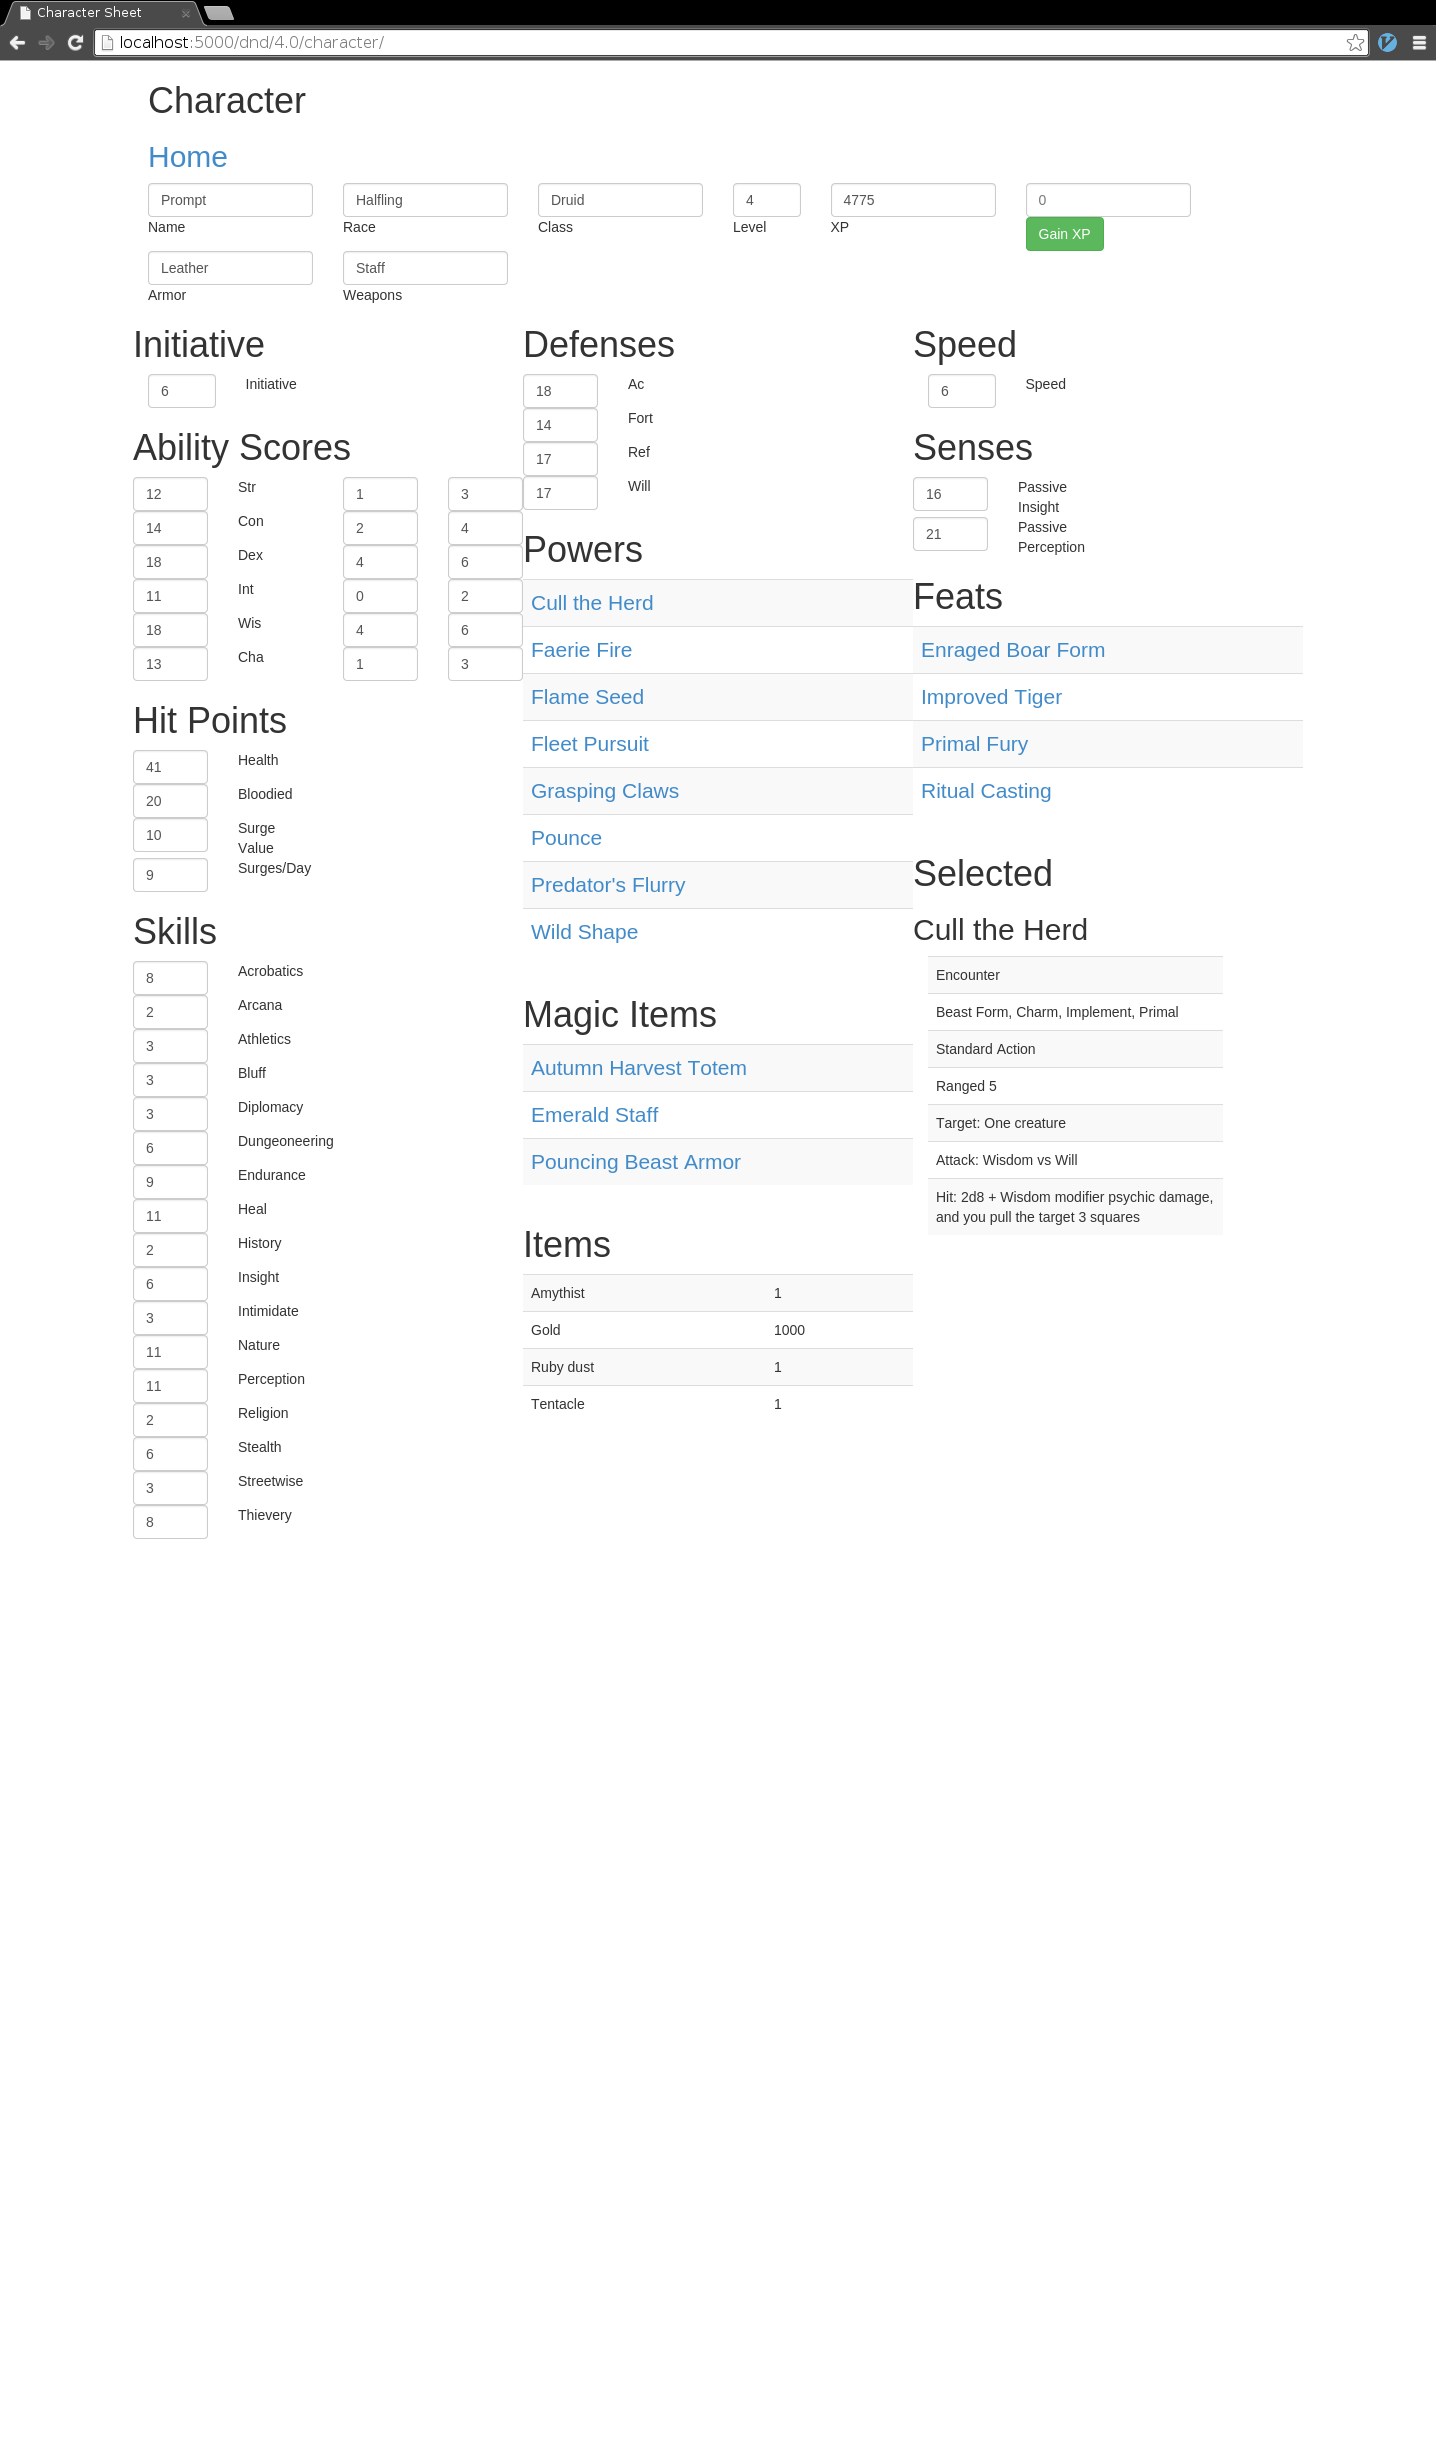
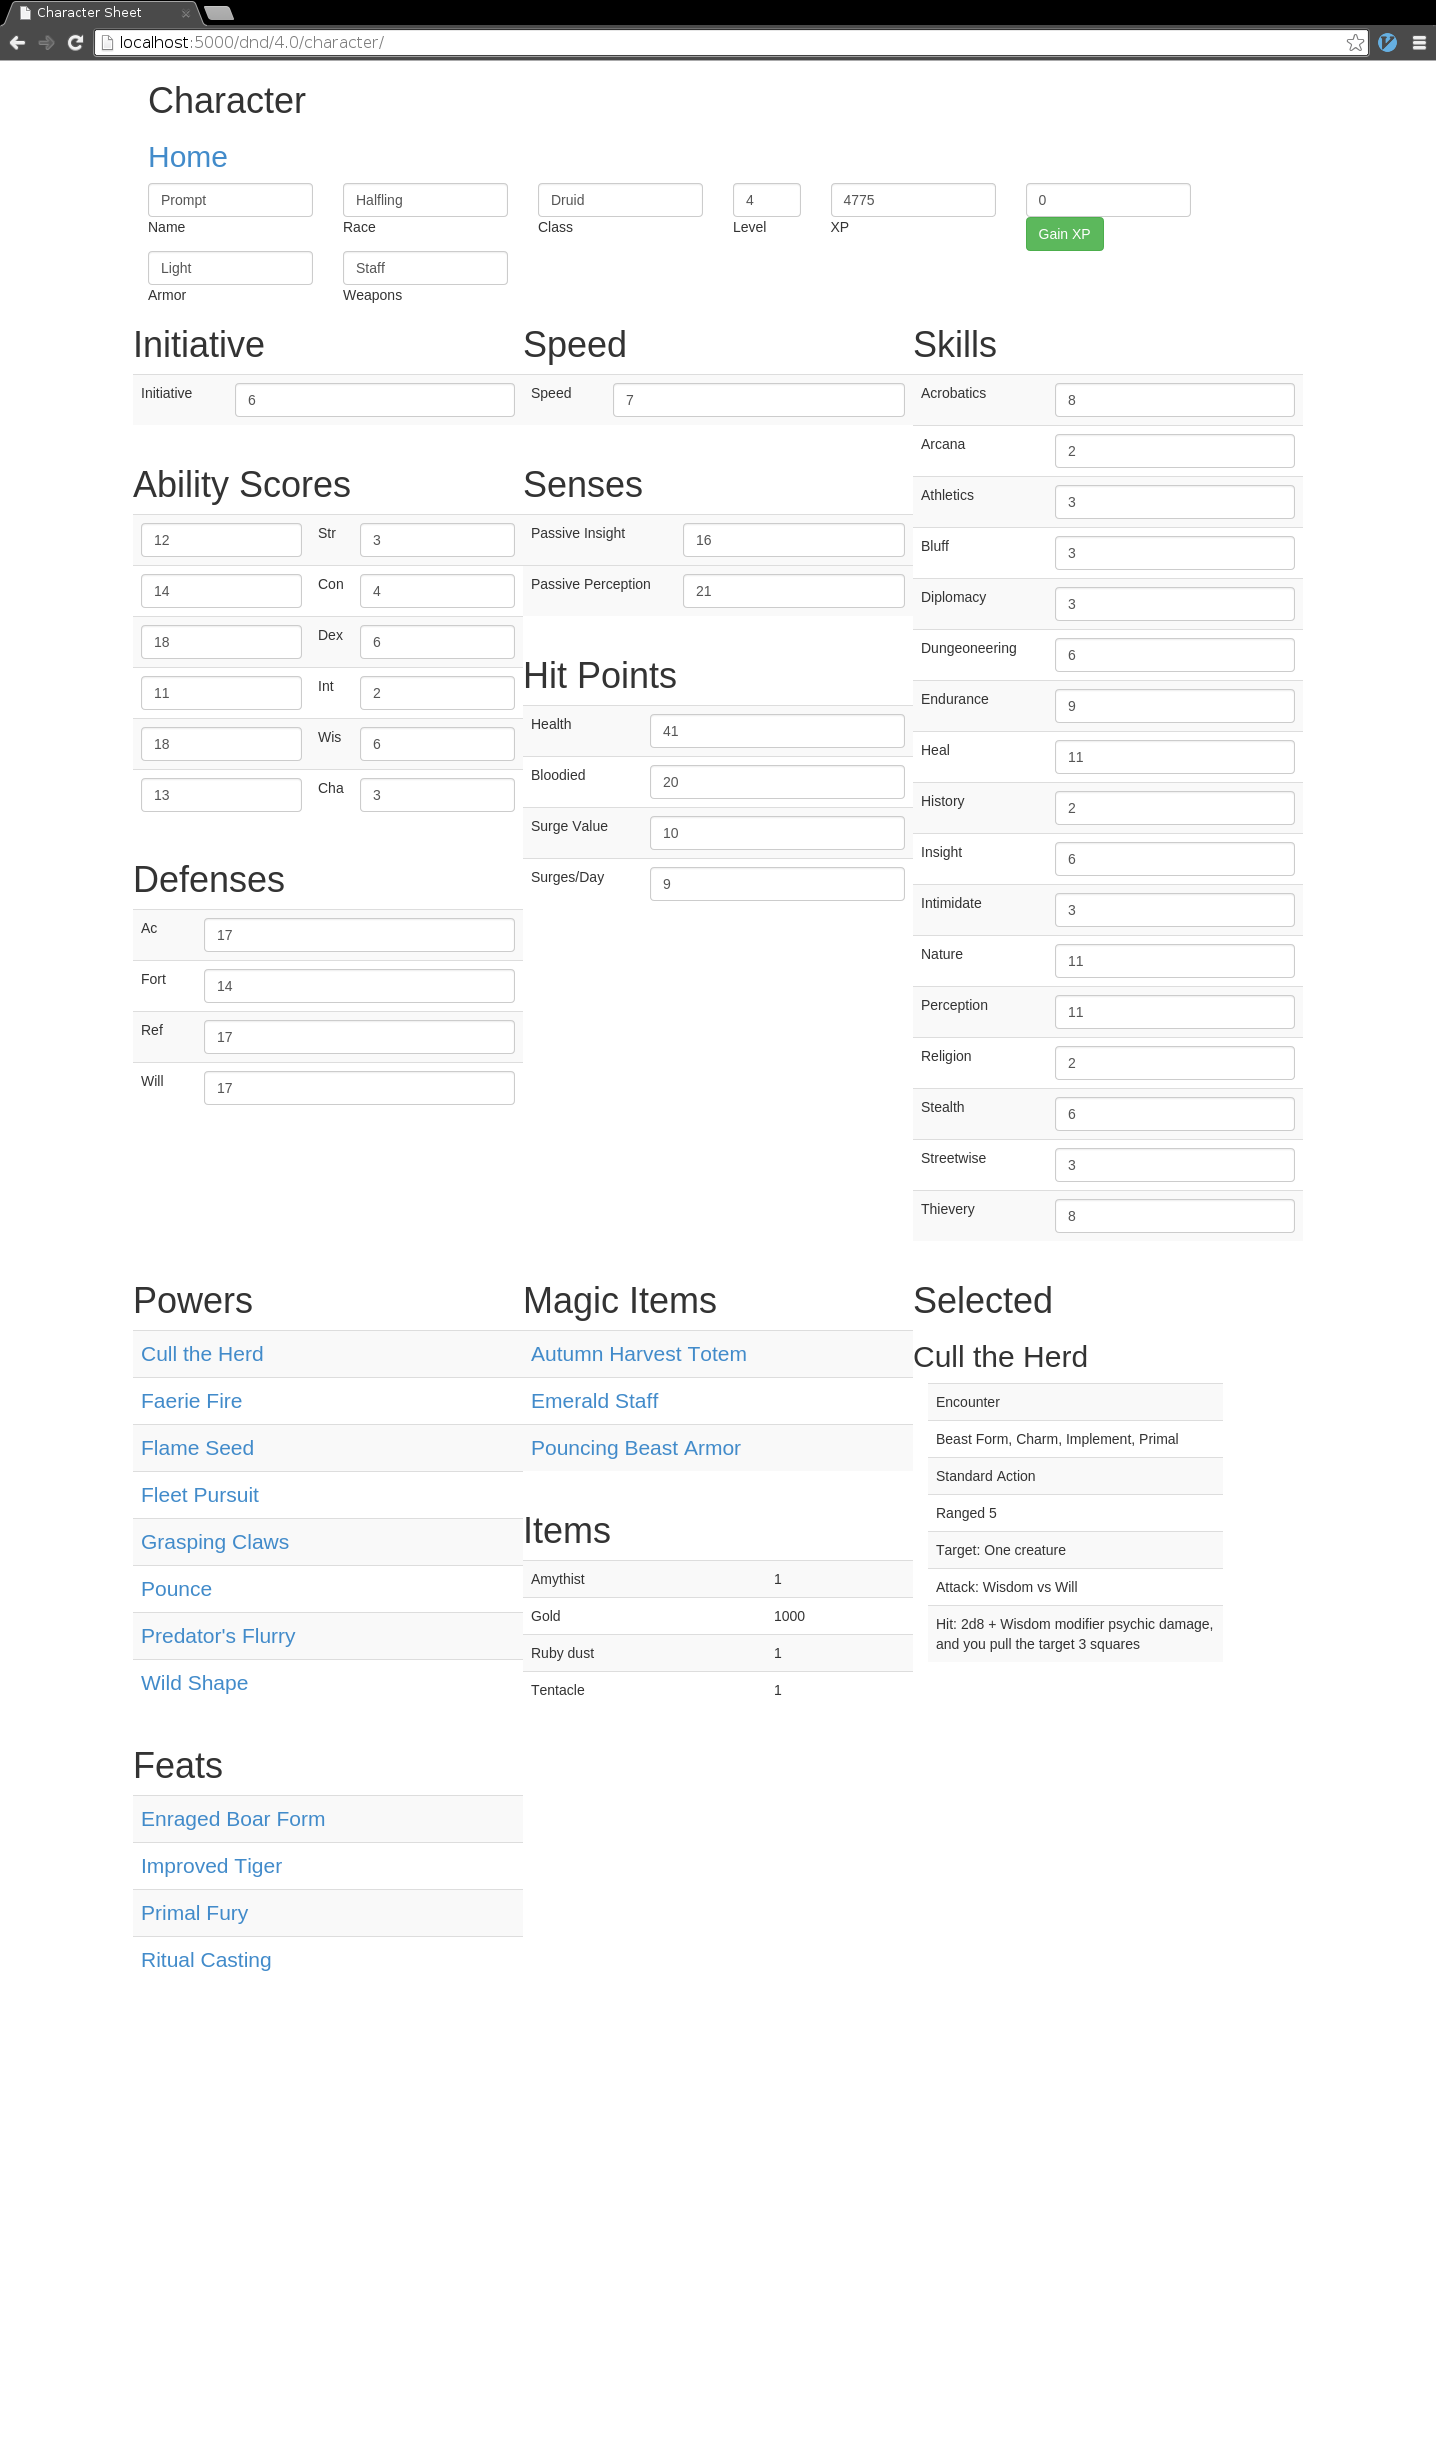
Clean up character page and server.py logic

diff --git a/web/templates/character-4.html b/web/templates/character-4.html
@@ -33,7 +33,6 @@
                     <input type="submit" class="btn btn-success" value="Gain XP"></button>
                 </form>
             </div>
-
         </div>
 
         <div class="row">
@@ -54,93 +53,145 @@
             <div class="col-sm-4">
                 <div class="row">
                     <h1>Initiative</h1>
-                    <div class="col-sm-3">
-                        <input id="initiative" class="form-control" type="text">
-                    </div>
-                    <div class="col-sm-3">Initiative</div>
+                    <table class="table table-striped">
+                        <tr>
+                            <td>Initiative</td>
+                            <td>
+                                <input id="initiative" class="form-control" type="text">
+                            </td>
+                        </tr>
+                    </table>
                 </div>
                 <div class="row">
                     <h1>Ability Scores</h1>
+                    <table class="table table-striped">
                     {% for (name) in ("Str", "Con", "Dex", "Int", "Wis", "Cha") %}
-                        <div class="row">
-                            <div class="col-sm-3">
+                        <tr>
+                            <td>
                                 <input id="abilScore{{ name }}" class="form-control" type="text">
-                            </div>
-                            <div class="col-sm-3">{{ name }}</div>
-                            <div class="col-sm-3">
-                                <input id="abilMod{{ name }}" class="form-control" type="text">
-                            </div>
-                            <div class="col-sm-3">
+                            </td>
+                            <td>{{ name }}</td>
+                            <td>
                                 <input id="abilModPlus{{ name }}" class="form-control" type="text">
-                            </div>
-                        </div>
+                            </td>
+                        </tr>
                     {% endfor %}
+                    </table>
                 </div>
-
                 <div class="row">
-                    <h1>Hit Points</h1>
-                    <div class="row">
-                        <div class="col-sm-3">
-                            <input id="health" class="form-control" type="text">
-                        </div>
-                        <div class="col-sm-3">Health</div>
-                    </div>
-                    <div class="row">
-                        <div class="col-sm-3">
-                            <input id="bloodied" class="form-control" type="text">
-                        </div>
-                        <div class="col-sm-3">Bloodied</div>
-                    </div>
-                    <div class="row">
-                        <div class="col-sm-3">
-                            <input id="surgeValue" class="form-control" type="text">
-                        </div>
-                        <div class="col-sm-3">Surge Value</div>
-                    </div>
-                    <div class="row">
-                        <div class="col-sm-3">
-                            <input id="surgesPerDay" class="form-control" type="text">
-                        </div>
-                        <div class="col-sm-3">Surges/Day</div>
-                    </div>
-                </div>
-
-                <div class="row">
-                    <h1>Skills</h1>
-                    <div>
-                        {% for name in ("Acrobatics", "Arcana", "Athletics", "Bluff", "Diplomacy",
-                            "Dungeoneering", "Endurance", "Heal", "History", "Insight", "Intimidate",
-                            "Nature", "Perception", "Religion", "Stealth", "Streetwise", "Thievery")
-                        %}
-                            <div class="row">
-                                <div class="col-sm-3">
-                                    <input id="{{ name }}" class="form-control" type="text">
-                                </div>
-                                <div class="col-sm-3">{{ name }}</div>
-                            </div>
-                        {% endfor %}
-                    </div>
+                    <h1>Defenses</h1>
+                    <table class="table table-striped">
+                    {% for name in ("Ac", "Fort", "Ref", "Will") %}
+                        <tr>
+                            <td>{{ name }}</td>
+                            <td>
+                                <input id="{{ name }}" class="form-control" type="text">
+                            </td>
+                        </tr>
+                    {% endfor %}
+                    </table>
                 </div>
             </div>
 
             <div class="col-sm-4">
                 <div class="row">
-                    <h1>Defenses</h1>
-                    {% for name in ("Ac", "Fort", "Ref", "Will") %}
-                        <div class="row">
-                            <div class="col-sm-3">
-                                <input id="{{ name }}" class="form-control" type="text">
-                            </div>
-                            <div class="col-sm-3">{{ name }}</div>
-                        </div>
-                    {% endfor %}
+                    <h1>Speed</h1>
+                    <table class="table table-striped">
+                        <tr>
+                            <td>Speed</td>
+                            <td>
+                                <input id="speed" class="form-control" type="text">
+                            </td>
+                        </tr>
+                    </table>
                 </div>
 
+                <div class="row">
+                    <h1>Senses</h1>
+                    <table class="table table-striped">
+                        <tr>
+                            <td>Passive Insight</td>
+                            <td>
+                                <input id="passiveInsight" class="form-control" type="text">
+                            </td>
+                        <tr>
+                        <tr>
+                            <td>Passive Perception</td>
+                            <td>
+                                <input id="passivePerception" class="form-control" type="text">
+                            </td>
+                        </tr>
+                    </table>
+                </div>
+
+                <div class="row">
+                    <h1>Hit Points</h1>
+                    <table class="table table-striped">
+                        <tr>
+                            <td>Health</td>
+                            <td>
+                                <input id="health" class="form-control" type="text">
+                            </td>
+                        </tr>
+                        <tr>
+                            <td>Bloodied</td>
+                            <td>
+                                <input id="bloodied" class="form-control" type="text">
+                            </td>
+                        </tr>
+                        <tr>
+                            <td>Surge Value</td>
+                            <td>
+                                <input id="surgeValue" class="form-control" type="text">
+                            </td>
+                        </tr>
+                        <tr>
+                            <td>Surges/Day</td>
+                            <td>
+                                <input id="surgesPerDay" class="form-control" type="text">
+                            </td>
+                        </tr>
+                    </table>
+                </div>
+            </div>
+
+            <div class="col-sm-4">
+                <div class="row">
+                    <h1>Skills</h1>
+                    <table class="table table-striped">
+                        {% for name in ("Acrobatics", "Arcana", "Athletics", "Bluff", "Diplomacy",
+                            "Dungeoneering", "Endurance", "Heal", "History", "Insight", "Intimidate",
+                            "Nature", "Perception", "Religion", "Stealth", "Streetwise", "Thievery")
+                        %}
+                            <tr>
+                                <td>{{ name }}</td>
+                                <td>
+                                    <input id="{{ name }}" class="form-control" type="text">
+                                </td>
+                            </tr>
+                        {% endfor %}
+                    </table>
+                </div>
+            </div>
+        </div>
+    </div>
+
+    <div class="container">
+        <div class="row">
+            <div class="col-sm-4">
                 <div class="row">
                     <h1>Powers</h1>
                     <div id="powers"></div>
                 </div>
 
+                <div class="row">
+                    <h1>Feats</h1>
+                    <div id="feats"></div>
+                </div>
+            </div>
+
+
+            <div class="col-sm-4">
                 <div class="row">
                     <h1>Magic Items</h1>
                     <div id="magicItems"></div>
@@ -153,35 +204,6 @@
             </div>
 
             <div class="col-sm-4">
-                <div class="row">
-                    <h1>Speed</h1>
-                    <div class="col-sm-3">
-                        <input id="speed" class="form-control" type="text">
-                    </div>
-                    <div class="col-sm-3">Speed</div>
-                </div>
-
-                <div class="row">
-                    <h1>Senses</h1>
-                    <div class="row">
-                        <div class="col-sm-3">
-                            <input id="passiveInsight" class="form-control" type="text">
-                        </div>
-                        <div class="col-sm-3">Passive Insight</div>
-                    </div>
-                    <div class="row">
-                        <div class="col-sm-3">
-                            <input id="passivePerception" class="form-control" type="text">
-                        </div>
-                        <div class="col-sm-3">Passive Perception</div>
-                    </div>
-                </div>
-
-                <div class="row">
-                    <h1>Feats</h1>
-                    <div id="feats"></div>
-                </div>
-
                 <div class="row">
                     <h1>Selected</h1>
                     <h2 id="selectedTitle"></h1>

diff --git a/web/server.py b/web/server.py
@@ -19,13 +19,14 @@ def get_character_sheet():
 
 @app.route('/rest/4.0/1.0/player', methods=['GET', 'POST'])
 def get_character_info():
-    data = json.loads(send_request('player:prompt'))
+    rawData = send_request('player:prompt')
+    print rawData
+    data = json.loads(rawData)
     return jsonify(data)
 
 
 @app.route('/rest/4.0/1.0/update', methods=['POST'])
 def update_character():
-    print request.form
     data = send_request(
         'update:prompt:' +
         json.dumps({
